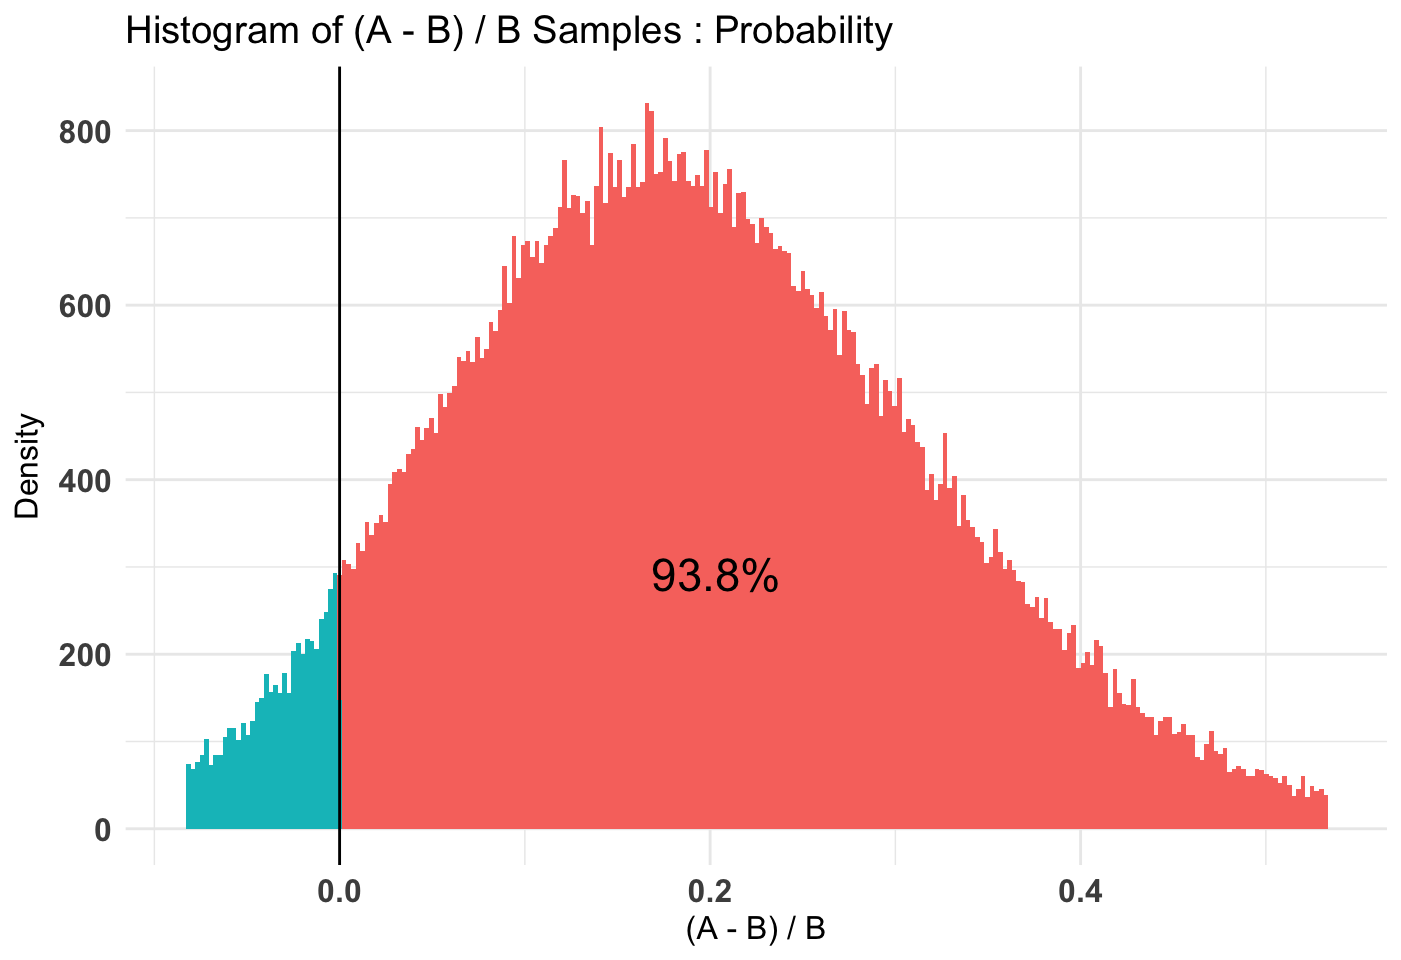
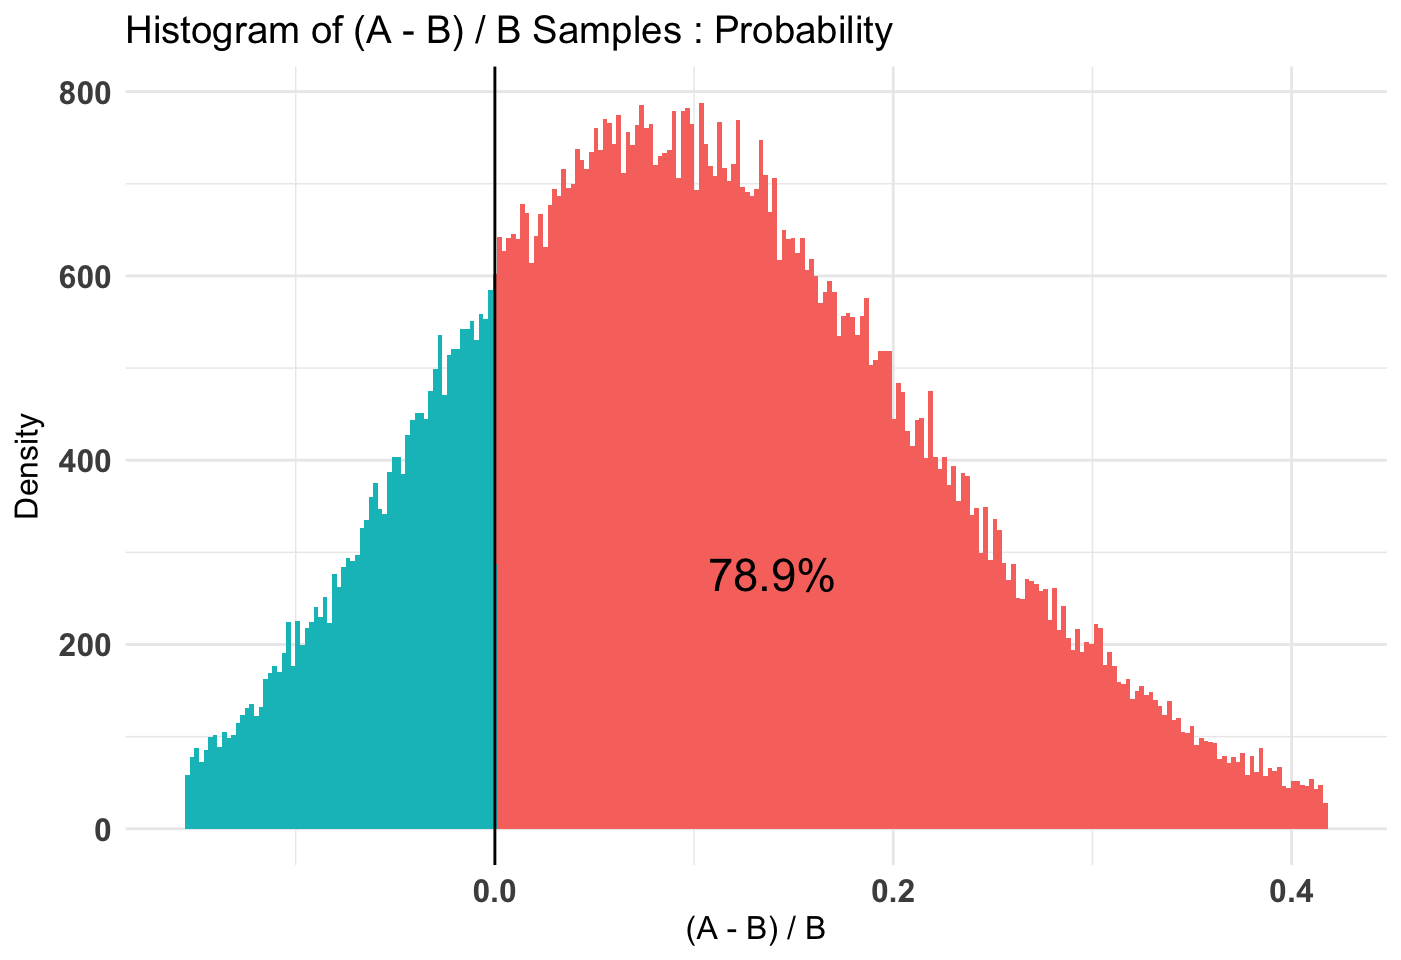
New site

diff --git a/docs/articles/introduction.html b/docs/articles/introduction.html
@@ -79,7 +79,7 @@
                         <h4 class="author">Frank Portman - fportman.com - <a href="mailto:frank1214@gmail.com">frank1214@gmail.com</a>
 </h4>
             
-            <h4 class="date">2017-07-22</h4>
+            <h4 class="date">2017-07-23</h4>
           </div>
 
     
@@ -123,13 +123,13 @@ B_binom &lt;-<span class="st"> </span><span class="kw">rbinom</span>(<span class
 ## Distribution used: bernoulli 
 ## --------------------------------------------
 ## Using data with the following properties: 
-##            A     B
-## Min.    0.00 0.000
-## 1st Qu. 0.00 0.000
-## Median  0.00 0.000
-## Mean    0.28 0.196
-## 3rd Qu. 1.00 0.000
-## Max.    1.00 1.000
+##             A     B
+## Min.    0.000 0.000
+## 1st Qu. 0.000 0.000
+## Median  0.000 0.000
+## Mean    0.252 0.208
+## 3rd Qu. 0.750 0.000
+## Max.    1.000 1.000
 ## --------------------------------------------
 ## Priors used for the calculation: 
 ## $alpha
@@ -150,11 +150,11 @@ B_binom &lt;-<span class="st"> </span><span class="kw">rbinom</span>(<span class
 ## $Probability
 ## $Probability$A
 ##        0%       25%       50%       75%      100% 
-## 0.1689733 0.2488181 0.2617792 0.2750472 0.3528311 
+## 0.1683192 0.2355190 0.2481124 0.2611376 0.3380261 
 ## 
 ## $Probability$B
 ##        0%       25%       50%       75%      100% 
-## 0.1494114 0.2089394 0.2210600 0.2333539 0.3004904 
+## 0.1542845 0.2146901 0.2268462 0.2394347 0.3148443 
 ## 
 ## 
 ## --------------------------------------------
@@ -162,7 +162,7 @@ B_binom &lt;-<span class="st"> </span><span class="kw">rbinom</span>(<span class
 ## P(A &gt; B) by (0)%: 
 ## 
 ## $Probability
-## [1] 0.93777
+## [1] 0.78869
 ## 
 ## --------------------------------------------
 ## 
@@ -170,14 +170,14 @@ B_binom &lt;-<span class="st"> </span><span class="kw">rbinom</span>(<span class
 ## 
 ## $Probability
 ##          5%         95% 
-## -0.01133332  0.42080812 
+## -0.09019446  0.31579737 
 ## 
 ## --------------------------------------------
 ## 
 ## Posterior Expected Loss for choosing B over A:
 ## 
 ## $Probability
-## [1] 0.01540872</code></pre>
+## [1] 0.05185692</code></pre>
 <div class="sourceCode"><pre class="sourceCode r"><code class="sourceCode r"><span class="kw">plot</span>(AB1)</code></pre></div>
 <p><img src="introduction_files/figure-html/unnamed-chunk-4-1.png" width="700.8"><img src="introduction_files/figure-html/unnamed-chunk-4-2.png" width="700.8"><img src="introduction_files/figure-html/unnamed-chunk-4-3.png" width="700.8"></p>
 <p><code>print</code> talks about the inputs to the test, <code>summary</code> will do a P((A - B) / B &gt; percentLift) and credible interval on (A - B) / B calculation, and <code>plot</code> will plot the priors, posteriors, and the Monte Carlo ‘integrated’ samples.</p>
@@ -200,12 +200,12 @@ B_pois &lt;-<span class="st"> </span><span class="kw">rpois</span>(<span class="
 ## --------------------------------------------
 ## Using data with the following properties: 
 ##              A      B
-## Min.     0.000  0.000
+## Min.     1.000  0.000
 ## 1st Qu.  5.000  4.000
 ## Median   6.000  5.000
-## Mean     6.424  5.584
+## Mean     6.452  5.444
 ## 3rd Qu.  8.000  7.000
-## Max.    13.000 12.000
+## Max.    13.000 13.000
 ## --------------------------------------------
 ## Priors used for the calculation: 
 ## $shape
@@ -226,11 +226,11 @@ B_pois &lt;-<span class="st"> </span><span class="kw">rpois</span>(<span class="
 ## $Lambda
 ## $Lambda$A
 ##       0%      25%      50%      75%     100% 
-## 5.748475 6.307818 6.413568 6.521338 7.153752 
+## 5.821786 6.335722 6.443074 6.550117 7.178059 
 ## 
 ## $Lambda$B
 ##       0%      25%      50%      75%     100% 
-## 5.001498 5.491512 5.590379 5.691811 6.267248 
+## 4.860359 5.355771 5.453580 5.552080 6.101787 
 ## 
 ## 
 ## --------------------------------------------
@@ -238,22 +238,22 @@ B_pois &lt;-<span class="st"> </span><span class="kw">rpois</span>(<span class="
 ## P(A &gt; B) by (0)%: 
 ## 
 ## $Lambda
-## [1] 0.99996
+## [1] 1
 ## 
 ## --------------------------------------------
 ## 
 ## Credible Interval on (A - B) / B for interval length(s) (0.9) : 
 ## 
 ## $Lambda
-##         5%        95% 
-## 0.08083483 0.21781820 
+##        5%       95% 
+## 0.1127449 0.2541495 
 ## 
 ## --------------------------------------------
 ## 
 ## Posterior Expected Loss for choosing B over A:
 ## 
 ## $Lambda
-## [1] 0.0002408784</code></pre>
+## [1] 0</code></pre>
 <div class="sourceCode"><pre class="sourceCode r"><code class="sourceCode r"><span class="kw">plot</span>(AB2)</code></pre></div>
 <p><img src="introduction_files/figure-html/unnamed-chunk-6-1.png" width="700.8"><img src="introduction_files/figure-html/unnamed-chunk-6-2.png" width="700.8"></p>
 <pre><code>## Warning: Removed 1 rows containing missing values (geom_vline).</code></pre>
@@ -277,13 +277,13 @@ AB3 &lt;-<span class="st"> </span>AB1 <span class="op">%&gt;%</span>
 ## Distribution used: combined 
 ## --------------------------------------------
 ## Using data with the following properties: 
-##            A      A     B      B
-## Min.    0.00  0.000 0.000  0.000
-## 1st Qu. 0.00  5.000 0.000  4.000
-## Median  0.00  6.000 0.000  5.000
-## Mean    0.28  6.424 0.196  5.584
-## 3rd Qu. 1.00  8.000 0.000  7.000
-## Max.    1.00 13.000 1.000 12.000
+##             A      A     B      B
+## Min.    0.000  1.000 0.000  0.000
+## 1st Qu. 0.000  5.000 0.000  4.000
+## Median  0.000  6.000 0.000  5.000
+## Mean    0.252  6.452 0.208  5.444
+## 3rd Qu. 0.750  8.000 0.000  7.000
+## Max.    1.000 13.000 1.000 13.000
 ## --------------------------------------------
 ## Priors used for the calculation: 
 ## [1] "Combined distributions have no priors. Inspect each element separately for details."
@@ -299,11 +299,11 @@ AB3 &lt;-<span class="st"> </span>AB1 <span class="op">%&gt;%</span>
 ## $Expectation
 ## $Expectation$A
 ##       0%      25%      50%      75%     100% 
-## 1.130711 1.591328 1.678484 1.767879 2.291252 
+## 1.032008 1.512913 1.598243 1.686716 2.181688 
 ## 
 ## $Expectation$B
 ##        0%       25%       50%       75%      100% 
-## 0.8034903 1.1647425 1.2356157 1.3084027 1.7436082 
+## 0.8264899 1.1667261 1.2366528 1.3092681 1.7114299 
 ## 
 ## 
 ## --------------------------------------------
@@ -311,7 +311,7 @@ AB3 &lt;-<span class="st"> </span>AB1 <span class="op">%&gt;%</span>
 ## P(A &gt; B) by (0)%: 
 ## 
 ## $Expectation
-## [1] 0.99558
+## [1] 0.98539
 ## 
 ## --------------------------------------------
 ## 
@@ -319,18 +319,16 @@ AB3 &lt;-<span class="st"> </span>AB1 <span class="op">%&gt;%</span>
 ## 
 ## $Expectation
 ##        5%       95% 
-## 0.1228338 0.6459197 
+## 0.0641028 0.5699655 
 ## 
 ## --------------------------------------------
 ## 
 ## Posterior Expected Loss for choosing B over A:
 ## 
 ## $Expectation
-## [1] 0.006479952</code></pre>
+## [1] 0.0208975</code></pre>
 <div class="sourceCode"><pre class="sourceCode r"><code class="sourceCode r"><span class="kw">plot</span>(AB3)</code></pre></div>
-<p><img src="introduction_files/figure-html/unnamed-chunk-8-1.png" width="700.8"></p>
-<pre><code>## Warning: Removed 1 rows containing missing values (geom_vline).</code></pre>
-<p><img src="introduction_files/figure-html/unnamed-chunk-8-2.png" width="700.8"></p>
+<p><img src="introduction_files/figure-html/unnamed-chunk-8-1.png" width="700.8"><img src="introduction_files/figure-html/unnamed-chunk-8-2.png" width="700.8"></p>
 </div>
 <div id="conclusion" class="section level3">
 <h3 class="hasAnchor">

diff --git a/docs/reference/bayesTest.html b/docs/reference/bayesTest.html
@@ -156,7 +156,7 @@ Not used for closed form tests.</p></td>
 corresponding to recipe A and recipe B of an A/B test. Order does not matter, except for interpretability of the final
 plots and intervals/point estimates. The Bayesian model for each distribution uses conjugate priors which must
 be specified at the time of invoking the function. Currently, there are <em>eight</em> supported distributions for the underlying data:</p><ul>
-<li><p>Bernoulli: If your data is well modeled by 1s and 0s, according to a specific probability <code>p</code> of a 1 occuring</p><ul>
+<li><p>Bernoulli: If your data is well modeled by 1s and 0s, according to a specific probability <code>p</code> of a 1 occurring</p><ul>
 <li><p>Data <b>must</b> be in a {0, 1} format where 1 corresponds to a 'success' as per the Bernoulli distribution</p></li>
 <li><p>Uses a conjugate <code>Beta</code> distribution for the parameter <b>p</b> in the Bernoulli distribution</p></li>
 <li><p><code>alpha</code> and <code>beta</code> must be set for a prior distribution over <b>p</b></p><ul>
@@ -166,7 +166,7 @@ be specified at the time of invoking the function. Currently, there are <em>eigh
 <li><p>Normal: If your data is well modeled by the normal distribution, with parameters \(\mu\), \(\sigma^2\) controlling mean and variance
 of the underlying distribution</p><ul>
 <li><p>Uses a conjugate <code>Normal</code> distribution for the parameter <b>\(\mu\)</b> in the Normal Distribution</p></li>
-<li><p>Uses a conjugate <code>Inverse Gamma</code> distribution for the parameter <b>\(\sigma^2\)</b> in the Normal Ditribution</p></li>
+<li><p>Uses a conjugate <code>Inverse Gamma</code> distribution for the parameter <b>\(\sigma^2\)</b> in the Normal Distribution</p></li>
 <li><p><code>mu</code>, <code>sd</code>, <code>shape</code>, and <code>scale</code> must be set for prior
             distributions over <b>\(\mu\), \(\sigma^2\)</b> in accordance with the parameters of the conjugate prior distributions:</p><ul>
 <li><p>\(\sigma^2\) ~ InvGamma(shape, scale)</p></li>
@@ -283,37 +283,7 @@ approach infinity. See <a href='plot.bayesTest.html'>plot.bayesTest</a> for how 
 #&gt; $Probability
 #&gt; [1] 0.5958145
 #&gt; </div><div class='input'><span class='fu'>plot</span>(<span class='no'>AB1</span>)</div><div class='img'><img src='bayesTest-1.png' alt='' width='700' height='432.632880098887' /></div><div class='img'><img src='bayesTest-2.png' alt='' width='700' height='432.632880098887' /></div><div class='output co'>#&gt; <span class='warning'>Warning: Removed 1 rows containing missing values (geom_vline).</span></div><div class='img'><img src='bayesTest-3.png' alt='' width='700' height='432.632880098887' /></div><div class='input'>
-<span class='fu'>print</span>(<span class='no'>AB2</span>)</div><div class='output co'>#&gt; --------------------------------------------
-#&gt; Distribution used: normal 
-#&gt; --------------------------------------------
-#&gt; Using data with the following properties: 
-#&gt;                 A         B
-#&gt; Min.     3.132821 -3.377552
-#&gt; 1st Qu.  4.895238  3.250953
-#&gt; Median   5.898531  4.924260
-#&gt; Mean     6.049633  4.912154
-#&gt; 3rd Qu.  6.936479  6.734556
-#&gt; Max.    10.323493 11.265252
-#&gt; --------------------------------------------
-#&gt; Priors used for the calculation: 
-#&gt; $mu
-#&gt; [1] 5
-#&gt; 
-#&gt; $sd
-#&gt; [1] 1
-#&gt; 
-#&gt; $shape
-#&gt; [1] 3
-#&gt; 
-#&gt; $scale
-#&gt; [1] 1
-#&gt; 
-#&gt; --------------------------------------------
-#&gt; Calculated posteriors for the following parameters: 
-#&gt; Mu, Sig_Sq 
-#&gt; --------------------------------------------
-#&gt; Monte Carlo samples generated per posterior: 
-#&gt; [1] 1e+05</div><div class='input'><span class='fu'>summary</span>(<span class='no'>AB2</span>)</div><div class='output co'>#&gt; Quantiles of posteriors for A and B:
+<span class='fu'>summary</span>(<span class='no'>AB2</span>)</div><div class='output co'>#&gt; Quantiles of posteriors for A and B:
 #&gt; 
 #&gt; $Mu
 #&gt; $Mu$A
@@ -366,7 +336,7 @@ approach infinity. See <a href='plot.bayesTest.html'>plot.bayesTest</a> for how 
 #&gt; 
 #&gt; $Sig_Sq
 #&gt; [1] 7.346345
-#&gt; </div><div class='input'><span class='fu'>plot</span>(<span class='no'>AB2</span>)</div><div class='img'><img src='bayesTest-4.png' alt='' width='700' height='432.632880098887' /></div><div class='img'><img src='bayesTest-5.png' alt='' width='700' height='432.632880098887' /></div><div class='img'><img src='bayesTest-6.png' alt='' width='700' height='432.632880098887' /></div><div class='img'><img src='bayesTest-7.png' alt='' width='700' height='432.632880098887' /></div><div class='output co'>#&gt; <span class='warning'>Warning: Removed 2 rows containing missing values (geom_vline).</span></div><div class='img'><img src='bayesTest-8.png' alt='' width='700' height='432.632880098887' /></div><div class='output co'>#&gt; <span class='warning'>Warning: Removed 2 rows containing missing values (geom_vline).</span></div><div class='img'><img src='bayesTest-9.png' alt='' width='700' height='432.632880098887' /></div><div class='input'>
+#&gt; </div><div class='input'>
 <span class='co'># Create a new variable that is the probability multiiplied</span>
 <span class='co'># by the normally distributed variable (expected value of something)</span>
 <span class='no'>AB3</span> <span class='kw'>&lt;-</span> <span class='fu'><a href='combine.html'>combine</a></span>(<span class='no'>AB1</span>, <span class='no'>AB2</span>, <span class='kw'>f</span> <span class='kw'>=</span> <span class='no'>`*`</span>, <span class='kw'>params</span> <span class='kw'>=</span> <span class='fu'>c</span>(<span class='st'>'Probability'</span>, <span class='st'>'Mu'</span>), <span class='kw'>newName</span> <span class='kw'>=</span> <span class='st'>'Expectation'</span>)
@@ -423,7 +393,7 @@ approach infinity. See <a href='plot.bayesTest.html'>plot.bayesTest</a> for how 
 #&gt; 
 #&gt; $Expectation
 #&gt; [1] 2.571535
-#&gt; </div><div class='input'><span class='fu'>plot</span>(<span class='no'>AB3</span>)</div><div class='img'><img src='bayesTest-10.png' alt='' width='700' height='432.632880098887' /></div><div class='img'><img src='bayesTest-11.png' alt='' width='700' height='432.632880098887' /></div><div class='input'>
+#&gt; </div><div class='input'><span class='fu'>plot</span>(<span class='no'>AB3</span>)</div><div class='img'><img src='bayesTest-4.png' alt='' width='700' height='432.632880098887' /></div><div class='img'><img src='bayesTest-5.png' alt='' width='700' height='432.632880098887' /></div><div class='input'>
 </div></pre>
   </div>
   <div class="col-md-3 hidden-xs hidden-sm" id="sidebar">

diff --git a/docs/articles/extra/priors.html b/docs/articles/extra/priors.html
@@ -79,7 +79,7 @@
                         <h4 class="author">Frank Portman - fportman.com - <a href="mailto:frank1214@gmail.com">frank1214@gmail.com</a>
 </h4>
             
-            <h4 class="date">2017-07-22</h4>
+            <h4 class="date">2017-07-23</h4>
           </div>
 
     
@@ -143,11 +143,11 @@ out_stronger_priors &lt;-<span class="st"> </span><span class="kw">ifelse</span>
 out_diffuse &lt;-<span class="st"> </span><span class="kw">ifelse</span>(out_diffuse <span class="op">&lt;=</span><span class="st"> </span><span class="fl">0.05</span> <span class="op">|</span><span class="st"> </span>out_diffuse <span class="op">&gt;=</span><span class="st"> </span>.<span class="dv">95</span>, <span class="dv">1</span>, <span class="dv">0</span>)</code></pre></div>
 <p>Now, A and B shouldn’t have any difference between the two but occasionally we will see a Type 1 error. That’s what the bottom 3 lines are doing. If P(A &gt; B) is &lt;=0.05 or &gt;= .95 we call one of the recipes “significantly” better. Observe what happens with each case of prior.</p>
 <div class="sourceCode"><pre class="sourceCode r"><code class="sourceCode r"><span class="kw">mean</span>(out_weaker_priors)</code></pre></div>
-<pre><code>## [1] 0.105</code></pre>
+<pre><code>## [1] 0.063</code></pre>
 <div class="sourceCode"><pre class="sourceCode r"><code class="sourceCode r"><span class="kw">mean</span>(out_stronger_priors)</code></pre></div>
-<pre><code>## [1] 0.024</code></pre>
+<pre><code>## [1] 0.022</code></pre>
 <div class="sourceCode"><pre class="sourceCode r"><code class="sourceCode r"><span class="kw">mean</span>(out_diffuse)</code></pre></div>
-<pre><code>## [1] 0.122</code></pre>
+<pre><code>## [1] 0.076</code></pre>
 <p>The diffuse priors have the most Type 1 errors, followed by the weak priors, followed by the strong priors; to be expected.</p>
 <p>Finally, we can fit another bayesTest (:D) to determine whether the differences between Type 1 error percents across priors are different from one another.</p>
 <div class="sourceCode"><pre class="sourceCode r"><code class="sourceCode r">t1 &lt;-<span class="st"> </span><span class="kw"><a href="../../reference/bayesTest.html">bayesTest</a></span>(out_diffuse, out_weaker_priors, <span class="dt">priors =</span> <span class="kw">c</span>(<span class="st">'alpha'</span> =<span class="st"> </span><span class="dv">1</span>, <span class="st">'beta'</span> =<span class="st"> </span><span class="dv">1</span>), <span class="dt">distribution =</span> <span class="st">'bernoulli'</span>)
@@ -165,11 +165,11 @@ t2 &lt;-<span class="st"> </span><span class="kw"><a href="../../reference/bayes
 ## $Probability
 ## $Probability$A
 ##         0%        25%        50%        75%       100% 
-## 0.08048111 0.11563318 0.12247980 0.12957754 0.17642700 
+## 0.04335268 0.07094944 0.07648169 0.08237170 0.11688331 
 ## 
 ## $Probability$B
 ##         0%        25%        50%        75%       100% 
-## 0.06939949 0.09921488 0.10560306 0.11222040 0.15272653 
+## 0.03417469 0.05852760 0.06357128 0.06889153 0.10070879 
 ## 
 ## 
 ## --------------------------------------------
@@ -177,7 +177,7 @@ t2 &lt;-<span class="st"> </span><span class="kw"><a href="../../reference/bayes
 ## P(A &gt; B) by (0)%: 
 ## 
 ## $Probability
-## [1] 0.88315
+## [1] 0.87074
 ## 
 ## --------------------------------------------
 ## 
@@ -185,25 +185,25 @@ t2 &lt;-<span class="st"> </span><span class="kw"><a href="../../reference/bayes
 ## 
 ## $Probability
 ##          5%         95% 
-## -0.05563057  0.42602765 
+## -0.08108986  0.57545960 
 ## 
 ## --------------------------------------------
 ## 
 ## Posterior Expected Loss for choosing B over A:
 ## 
 ## $Probability
-## [1] 0.01376163</code></pre>
+## [1] 0.009459438</code></pre>
 <div class="sourceCode"><pre class="sourceCode r"><code class="sourceCode r"><span class="kw">summary</span>(t2)</code></pre></div>
 <pre><code>## Quantiles of posteriors for A and B:
 ## 
 ## $Probability
 ## $Probability$A
 ##         0%        25%        50%        75%       100% 
-## 0.08085246 0.11564376 0.12246161 0.12965975 0.17832570 
+## 0.04406858 0.07107655 0.07661334 0.08233689 0.12072655 
 ## 
 ## $Probability$B
 ##          0%         25%         50%         75%        100% 
-## 0.008600724 0.021481680 0.024643614 0.028083847 0.055290125 
+## 0.008312552 0.019612985 0.022664529 0.025938962 0.048355999 
 ## 
 ## 
 ## --------------------------------------------
@@ -219,7 +219,7 @@ t2 &lt;-<span class="st"> </span><span class="kw"><a href="../../reference/bayes
 ## 
 ## $Probability
 ##       5%      95% 
-## 2.541729 6.204272 
+## 1.329301 4.047712 
 ## 
 ## --------------------------------------------
 ## 

diff --git a/docs/reference/bayesAB.html b/docs/reference/bayesAB.html
@@ -117,7 +117,7 @@ your posterior distributions are parametrized random variables which can be summ
 any number of ways. Bayesian tests are also immune to 'peeking' and are thus valid whenever
 a test is stopped.</p>
 <p>The general bayesAB workflow is as follows:</p><ul>
-<li><p>Decide how you wanta to parametrize your data (Poisson for counts of email submissions, Bernoulli for CTR on an ad, etc.)</p></li>
+<li><p>Decide how you want to parametrize your data (Poisson for counts of email submissions, Bernoulli for CTR on an ad, etc.)</p></li>
 <li><p>Use our helper functions to decide on priors for your data (<a href='bayesTest.html'>bayesTest</a>, <a href='plotDistributions.html'>plotDistributions</a>)</p></li>
 <li><p>Fit a <a href='bayesTest.html'>bayesTest</a> object</p><ul>
 <li><p>Optional: Use <a href='combine.html'>combine</a> to munge together several <a href='bayesTest.html'>bayesTest</a> objects together for an arbitrary / non-analytical target distribution</p></li>

diff --git a/docs/reference/combine.html b/docs/reference/combine.html
@@ -102,7 +102,7 @@
     </div>
 
     
-    <p>Combine two (or any number, in succesion) <code>bayesTest</code> objects into a new arbitrary posterior distribution.
+    <p>Combine two (or any number, in succession) <code>bayesTest</code> objects into a new arbitrary posterior distribution.
              The resulting object is of the same class.</p>
     
 
@@ -141,7 +141,7 @@ defaults to string representation of f(params[1], params[2])</p></td>
     
     <h2 class="hasAnchor" id="note"><a class="anchor" href="#note"></a>Note</h2>
 
-    <p>The generics `+.bayesTest`, `*.bayesTest`, `-.bayesTest`, and `/.bayesTest` are shorthand for 
+    <p>The generics `+.bayesTest`, `*.bayesTest`, `-.bayesTest`, and `/.bayesTest` are shorthand for
       combine(f = `+`), combine(f = `*`), combine(f = `-`), and combine(f = `/`).</p>
     
     <h2 class="hasAnchor" id="see-also"><a class="anchor" href="#see-also"></a>See also</h2>

diff --git a/docs/reference/summary.bayesTest.html b/docs/reference/summary.bayesTest.html
@@ -135,7 +135,7 @@ the respective posterior in x. Also on a 'point' scale.</p></td>
     
     <h2 class="hasAnchor" id="value"><a class="anchor" href="#value"></a>Value</h2>
 
-    <p>A <code>summaryBayesTest</code> object which contains summaries of the Posterior distributions, direct probablities that A &gt; B (by
+    <p>A <code>summaryBayesTest</code> object which contains summaries of the Posterior distributions, direct probabilities that A &gt; B (by
 <code>percentLift</code>), credible intervals on (A - B) / B, and the Posterior Expected Loss on all estimated parameters.</p>
     
     <h2 class="hasAnchor" id="note"><a class="anchor" href="#note"></a>Note</h2>

diff --git a/docs/reference/plot.bayesTest.html b/docs/reference/plot.bayesTest.html
@@ -123,7 +123,7 @@ the respective posterior in x. Note this is on a 'point' scale. percentLift = 5 
     </tr>
     <tr>
       <th>priors</th>
-      <td><p>logical indiciating whether prior plots should be generated.</p></td>
+      <td><p>logical indicating whether prior plots should be generated.</p></td>
     </tr>
     <tr>
       <th>posteriors</th>
